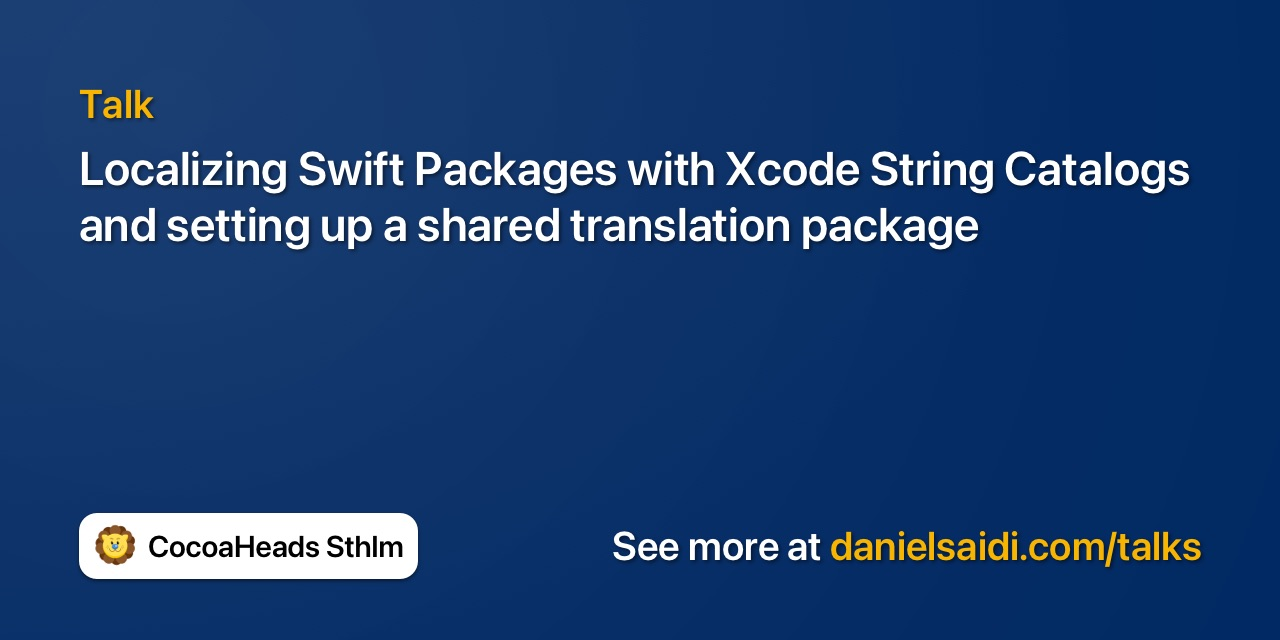
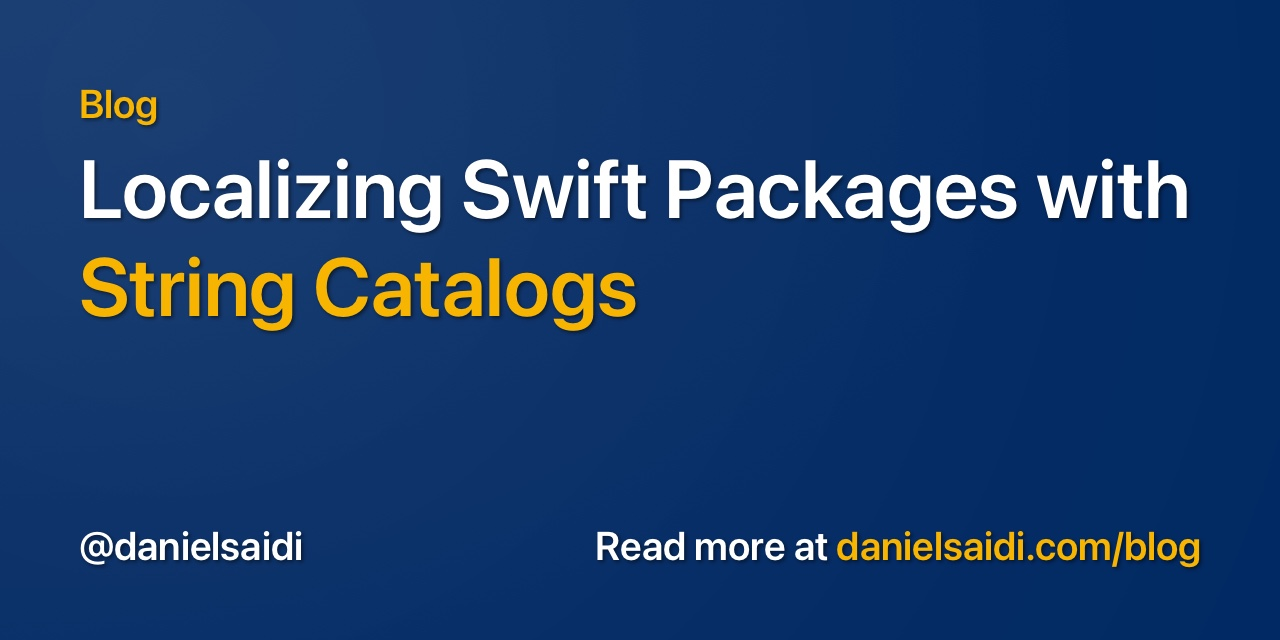
Update blog post

diff --git a/collections/_posts/2025/2025-12-14-localizing-swift-packages-with-string-catalogs.md b/collections/_posts/2025/2025-12-14-localizing-swift-packages-with-string-catalogs.md
@@ -1,0 +1,126 @@
+---
+title:  Localizing Swift Packages with String Catalogs
+date:   2025-12-14 07:00:00 +0000
+tags:   talks spm l10n
+
+assets: /assets/blog/25/1214/
+image:  /assets/blog/25/1214/image.jpg
+image-show: 0
+
+redirect_from: /blog/2025/12/14/talk-at-cocoaheads-on-swift-package-localization
+
+talk: /talks/2025/12/14/localizing-swift-packages-with-string-catalogs
+post: /blog/2025/12/02/a-better-way-to-localize-swift-packages-with-xcode-string-catalogs
+
+bsky:   https://bsky.app/profile/danielsaidi.bsky.social/post/3ll6sndqbek2g
+toot:   https://mastodon.social/@danielsaidi/114222023314551015
+---
+
+
+I recently gave a talk at [CocoaHeads Stockholm]({{page.talk}}), on how to use Xcode string catalogs to localize Swift packages, and how to create a shared translations package. Let's see what the big deal is.
+
+
+## Xcode String Catalogs
+
+Xcode string catalogs were introduced at WWDC 23 as a replacement for `Localizable.strings`. It lets you manage all locales, as well as device and plural variations, with a single catalog file. 
+
+The string catalog file format is `.xcstrings` and while this may seem fancy and Xcode renders these files in a very sophisticated way, it's just a plain JSON file.
+
+
+## String Catalogs Benefits
+
+After adding a `Localizable.xcstrings` to your project, Xcode will automatically generate keys in this file as you add new key references to your code and views.
+
+For instance, adding this to a SwiftUI file will generate the corresponding key within the catalog file:
+
+```swift
+Text("HomeScreen.Greeting")
+```
+
+Xcode will automatically keep track of your keys and show you if a translated key is no longer in use:
+
+![Stale key UI]({{page.assets}}stale-ui.jpg){:class="plain sticker"}
+
+Xcode will also automatically remove untranslated keys if the key reference is removed from code, and will show you the translation state of all additional languages.
+
+Additional benefits of using a string catalog is that it's super easy to vary a key by plural or device:
+
+![UI for Vary by Device]({{page.assets}}vary-by-device.jpg)
+
+You can add parameters to a key, then use them to inject ints, doubles and strings into the string:
+
+![Strings with parameters]({{page.assets}}parameters.jpg)
+
+String catalogs even support Markdown! This, in combination with SwiftUI's Markdown support, will add a link to the text above, when it's rendered on all platforms except macOS.
+
+
+
+## Drawbacks
+
+While string catalogs was a huge improvement from the old `.strings` file, it's still easy to break your localization by changing the key in your code, either intentionally or by accident.
+
+```swift
+Text("HomeScreen.Greeting ") // Typo
+```
+
+This would mark the old key as "stale" in the catalog, and add a new key to the catalog. The problem is that localization would now be broken, but the code would still compile.
+
+We had this problem with `.strings` files as well, but with string catalogs we have a way to handle it.
+
+You see, since string catalogs are just JSON files, all stale keys will be properly marked in plain text:
+
+```xml
+"MyKey" : {
+    "comment" : "",
+    "extractionState" : "stale",     // <-- HERE
+    "isCommentAutoGenerated" : true,
+    "localizations" : {
+    "en" : {
+        "stringUnit" : {
+        "state" : "translated",
+        "value" : "My Key"
+        }
+    }
+    }
+}
+```
+
+This means that we can have our CI or build pipelines check if the plain JSON file contains any stale keys, and fail the build if so is the case.
+
+But in my opinion, this never sat well with me. I would prefer to have proper symbols, like the ones Xcode generated for asset catalogs. And in Xcode 26, we get just that.
+
+
+
+## Xcode 26 String Catalog Improvements
+
+Xcode 26 improves string catalog usage by generating symbols for keys that are manually added to a string catalog, including support for parameters and the string variations from before:
+
+![Key with generated symbol]({{page.assets}}generated-symbol.jpg)
+
+We can then use these auto-generated symbols directly in our code, like this:
+
+```swift
+Text(.homeScreenGreeting(10))
+```
+
+These generated symbols remove the hassle of having to specify the key bundle, which was a huge pain and source of error when defining translations in a Swift package.
+
+This also gives us compile-time safety, since removing keys in use will give us compile-time errors. I really love this addition in Xcode 26.
+
+
+## Remaining Drawbacks
+
+While Xcode 26's string catalog symbol generation is a big improvement, there are still some things to consider when using string catalogs with Swift packages. 
+
+For a UI component package, the above would works great. The generated `LocalizedStringResource` values would simplify things a lot by removing the need to define a bundle.
+
+However, if we want to set up a shared translation package with keys that can be used from many packages and apps in an organization, the auto-generated symbols won't work on their own.
+
+The reason for this is that the generated symbols are *internal*, which means that they can only be accessed from within the package itself. This means that other targets can't access them.
+
+
+## Generating Public Key References
+
+To work around the limitations of internal symbols, we can create a public symbol for each internal symbol. I have written about this in [this blog post]({{page.post}}) and given a [talk]({{page.talk}}) about it as well.
+
+During this talk, I was recommended to look into Xcode build plugins, which looks promising. Feel free to check out the post and the talk and let me know what you think. 

diff --git a/collections/_talks/2025-12-15-localizing-swift-packages-with-string-catalogs.md b/collections/_talks/2025-12-15-localizing-swift-packages-with-string-catalogs.md
@@ -4,9 +4,11 @@ date: 2025-12-14
 
 assets: /assets/talks/25/1215-cocoaheads/
 image: /assets/talks/25/1215-cocoaheads/image.jpg
-#images:
-#  - stage.jpg
-#  - richard-campbell.jpg
+images:
+  - img-1.jpg
+  - img-2.jpg
+  - img-3.jpg
+  - img-4.jpg
 
 location: CocoaHeads Sthlm
 location-url: https://meetup.com/CocoaHeads-Stockholm
@@ -15,8 +17,9 @@ slides: https://github.com/danielsaidi/website_danielsaidi/releases/download/tal
 slides-screenshot: 1
 # video: https://www.youtube.com/watch?v=D7NuxbnY1K0&list=PL-wmxEeX64YTpDbpfszWMV76oZZO3wxZH&index=14
 
-post-1: /blog/2025/12/14/talk-at-cocoaheads-on-swift-package-localization
+post-1: /blog/2025/12/14/localizing-swift-packages-with-string-catalogs
 post-2: /blog/2025/12/02/a-better-way-to-localize-swift-packages-with-xcode-string-catalogs
+sps: http://github.com/danielsaidi/SwiftPackageScripts
 
 tags: cocoaheads-sthlm slides swift l10n
 
@@ -26,6 +29,6 @@ abstract: |
   We'll also look at how we can use Xcode 26's new symbol generation to get compile-time safety, and how to set up a shared translation package that can be used by many packages and apps.
 ---
 
-I will give this talk at [{{page.location}}]({{page.location-url}}), on how to localize Swift packages with String Catalogs, and how to create a central localization package that can be shared across multiple apps and packages.
+I gave this talk at [{{page.location}}]({{page.location-url}}) on how to localize Swift packages with String Catalogs and how to create a shared localization package that can be used by multiple apps and packages.
 
-This page will be available after the talk. You can read more about this talk [here]({{page.post-1}}) and see [this article]({{page.post-2}}) for a complete implementation.
+I have written about String Catalogs in Swift Packages in [here]({{page.post-1}}) and [here]({{page.post-2}}). See [SwiftPackageScripts]({{page.sps}}) for the scripts I use to generate public keys for the Xcode generated, package internal ones.
